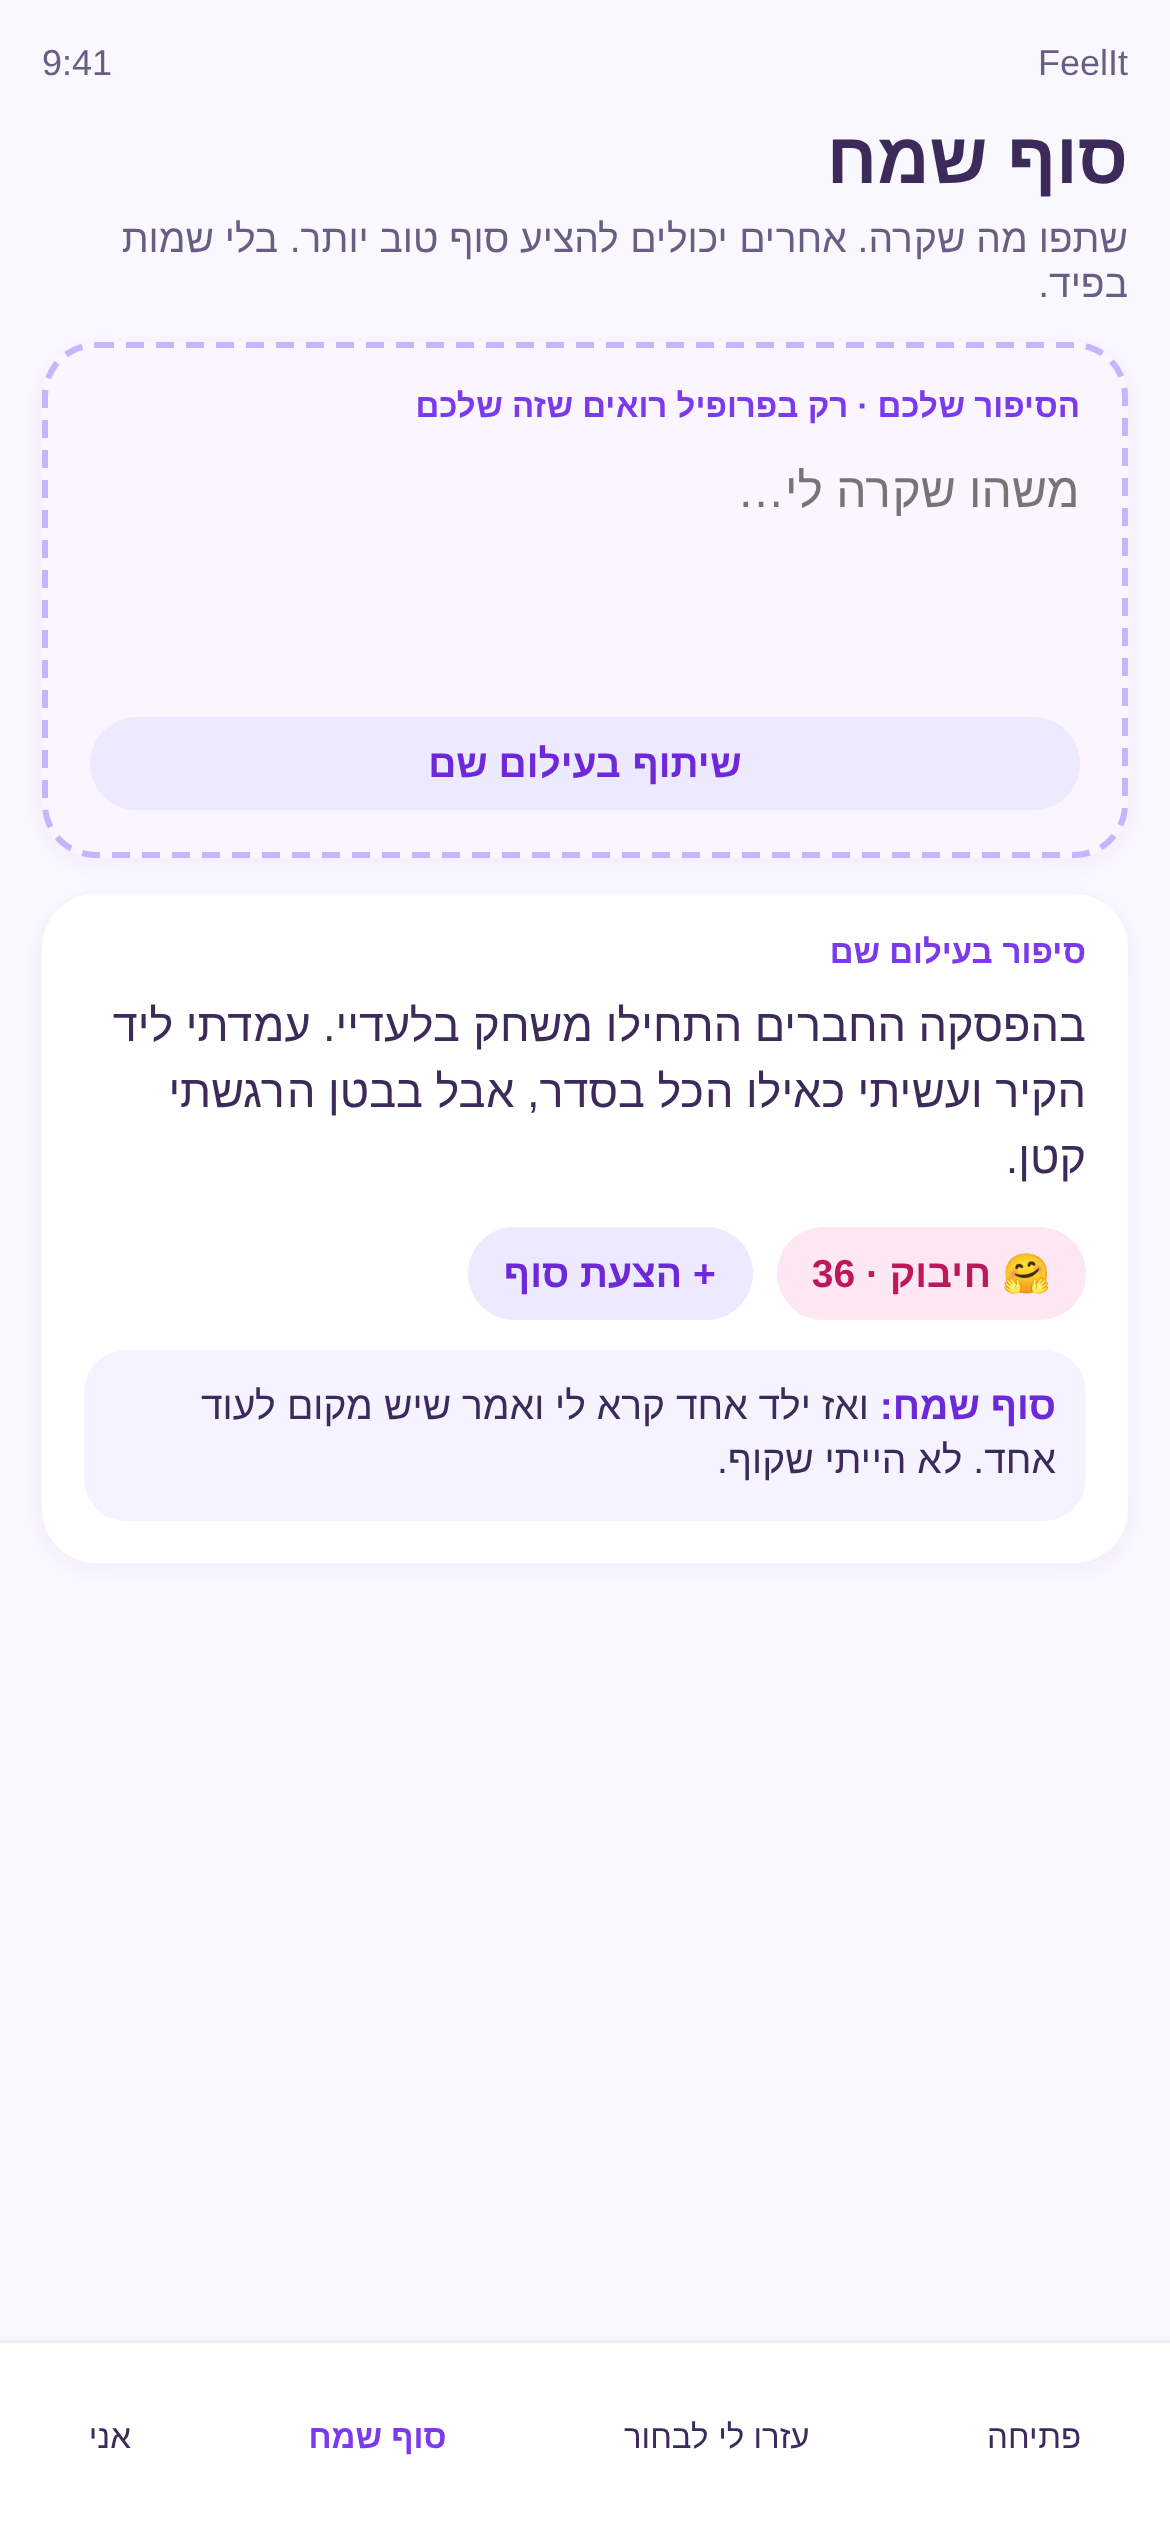
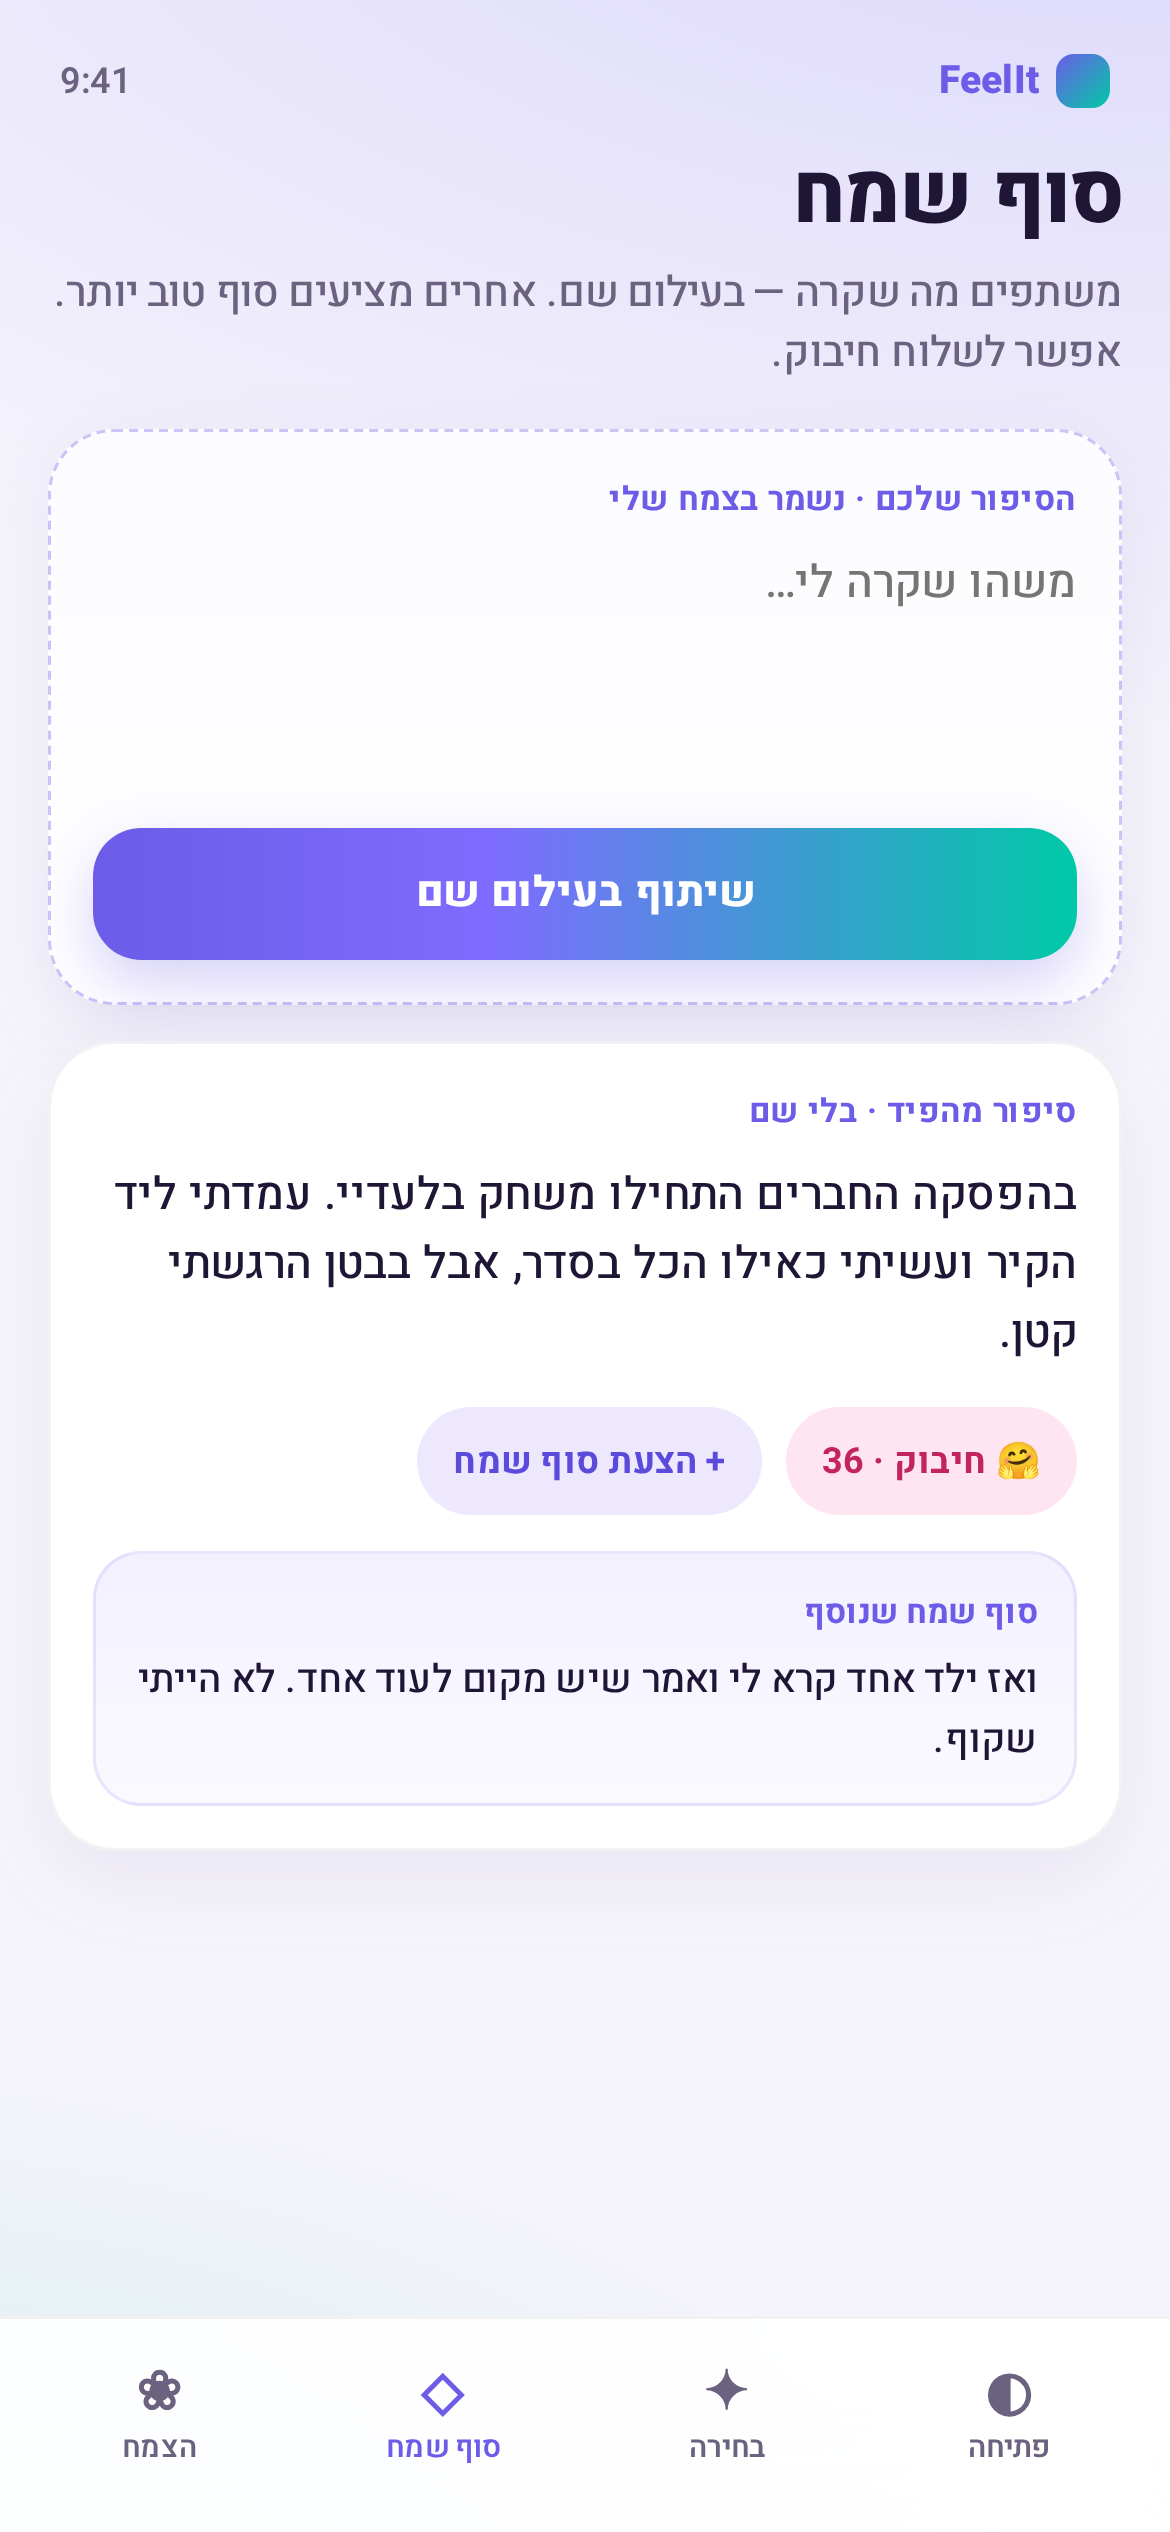
Investor-quality visual upgrade: premium mocks + polished README
- Replace all 6 screen mocks with premium Hebrew RTL portraits
- Polish README for investor-facing first impression:
  - Crisp 2-sentence product summary opening
  - Streamlined section structure
  - Concise descriptions, accurate product content
  - Clean visual hierarchy
- Keep all product claims accurate, no new features invented

diff --git a/README.md b/README.md
@@ -1,175 +1,102 @@
 # FeelIt
 
-FeelIt is an app supporting kids under 10 who have experienced bullying or social harassment.
+**A safe space for kids under 10 who've experienced bullying.** FeelIt helps children express difficult feelings, see they're not alone, and receive kindness from peers—without the risks of open social interaction.
 
-**v1 language: Hebrew** — UI copy is gender-neutral Hebrew; brand name stays "FeelIt".
-
----
-
-## Purpose
-
-FeelIt is an app designed to support **kids under 10** who have suffered, or are still suffering, from **bullying or other social harassment**.
-
-The primary audience is young children who need:
-
-- A safe space to process difficult social experiences
-- A way to connect with peers who understand what they're going through
-- Tools for self-expression without risk of further harassment
-
-Young children experiencing bullying often lack safe outlets to share their experiences. FeelIt aims to provide a supportive environment where kids can:
-
-1. Express how they're feeling day-to-day
-2. Share experiences anonymously without fear of identification
-3. Engage with a community in structured, safe ways
-4. See that they're not alone in their experiences
+> v1 ships in Hebrew (gender-neutral UI). Mocks below are production-intent iPhone portraits.
 
 ---
 
 ## Tenets
 
 ### Don'ts
-
-1. **Don't store personal information** beyond city of residence, first name, and age.
-2. **Don't let free text be tied to a specific other user** — free text must not be associated with information that directly identifies or points to a particular user (prevents harassment and outing).
+1. **Don't store personal information** beyond city, first name, and age.
+2. **Don't let free text target another user** — prevents harassment and outing.
 
 ### Do's
-
-1. **Never leave a user hanging** — every user engagement must get a response (from other users or from the system) so no one feels abandoned.
-2. **Show them they're not alone** — their problems are not unique; others feel this too.
-3. **Give hope** — help the user believe things can change.
-4. **Invite safe connection between kids** — host and encourage cross-user engagement that stays kind and safe.
+1. **Never leave a user hanging** — every engagement gets a response.
+2. **Show them they're not alone** — others feel this too.
+3. **Give hope** — things can change.
+4. **Invite safe connection** — cross-user engagement that stays kind.
 
 ---
 
 ## Screens
 
-### Welcome Screen / פתיחה
+### Welcome / פתיחה
 
-**Trigger:** First app open of the day
-
-**Purpose:** A 3-step flow that lets kids check in, see they're not alone, and send anonymous kindness—all without free text.
-
----
+Daily check-in flow (3 steps). No free text.
 
 #### Step 1 — How I Feel
 
-The child adjusts several **feeling levers** (1–5 scale each), each representing a different dimension of their day. Visual icons at each end matter as much as the number—designed to be bullying-aware without naming bullies on the screen.
+Five feeling levers (1–5 scale), using kid-friendly metaphors:
 
-| English | Hebrew |
-|---------|--------|
+| Lever | Hebrew |
+|-------|--------|
 | Sunshine inside | שמש בפנים |
 | School weather | מזג אוויר בבית הספר |
 | With others | עם אחרים |
 | Steady body | רגועים בגוף |
 | Hope light | אור של תקווה |
 
-**Rules:**
-- Levers only—no free text
-- Each lever uses kid-friendly metaphors with gentle visual endpoints
-- Sensitivity: framing avoids direct bullying language while capturing the child's emotional state
-
-![Welcome Screen — Step 1: How I Feel](mocks/welcome-screen.png)
-
----
+![Welcome — Step 1](mocks/welcome-screen.png)
 
 #### Step 2 — You're Not Alone / לא לבד כאן
 
-After setting their levers, the child sees an **anonymous count** of other kids whose feelings look similar today.
+Shows an anonymous count of kids with similar feelings today. No names, no faces—just reassurance.
 
-- Example: "42 kids felt close to this today" / "42 ילדים הרגישו דומה היום"
-- Display uses anonymous dots/avatars only—no names, no identifiable faces
-- Supporting line: "Different schools. Same weather inside." / "בתי ספר שונים. אותו מזג אוויר בפנים."
+![Welcome — Step 2](mocks/welcome-not-alone.png)
 
-**Design intent:** Reassure the child that others share similar feelings without exposing anyone's identity.
+#### Step 3 — Send Kindness / שלחו אדיבות
 
-![Welcome Screen — Step 2: You're Not Alone](mocks/welcome-not-alone.png)
+Pick one kindness gift to send anonymously to that similar-feeling group:
 
----
-
-#### Step 3 — Send a Warm Gift / מתנה חמה
-
-The child can pick one **structured kindness gift** to send to that anonymous group of similar-feeling kids.
-
-**Gift options:**
-
-| English | Hebrew |
-|---------|--------|
+| Gift | Hebrew |
+|------|--------|
 | Brave star | כוכב אומץ |
 | Hug cloud | ענן חיבוק |
 | You-matter heart | מגיע לכם |
-| Flashlight for a hard day | פנס ליום קשה |
+| Flashlight | פנס ליום קשה |
 | High-five | תנו חמש |
 
-**How it works:**
-- One tap sends the gift into a shared "kindness jar" that those kids can receive
-- Recipients learn only that someone cared—**not who sent it**
-- No free text, no DMs, no way to target individuals
+Recipients learn only that someone cared—not who.
 
-**Design intent:** Empower kids to give support while respecting anti-harassment tenets. Builds connection without exposing identity.
+![Welcome — Step 3](mocks/welcome-gift.png)
 
-![Welcome Screen — Step 3: Send a Warm Gift](mocks/welcome-gift.png)
+---
 
 ### Help Me Choose / עזרו לי לבחור
 
-**Purpose:** Let a young user engage with others safely by asking for help with everyday decisions.
+Safe peer engagement through image-based polls.
 
-**How it works:**
-1. The asker writes a **free-text question** (e.g. "מה ללבוש למסיבה?" / "What should I wear to the party?")
-2. The asker uploads **3–4 images** as answer options (e.g. outfit photos)
-3. Other users see these asks in a feed and **choose exactly one image** to vote
-4. No typed replies, no comments, no DMs on this surface
-
-**Example:**
-> "מה ללבוש למסיבה?" (What should I wear to the party?)
-> - [Image א: שמלה / Dress]
-> - [Image ב: קז'ואל / Casual]
-> - [Image ג: צבעוני / Bright]
-> - [Image ד: נוח / Cozy]
-
-**Safety note:** Voters can only tap an image—no free-text responses to the asker. This keeps peer harassment risk low while still allowing the asker's own question text.
+- Asker posts a question + 3–4 images
+- Others vote by tapping one image
+- No typed replies, no comments, no DMs
 
 ![Help Me Choose](mocks/help-me-choose.png)
 
+---
+
 ### Happy Ending / סוף שמח
 
-**Purpose:** Let kids share what happened to them and receive hopeful happy endings from others.
+Share what happened. Receive hopeful endings from others.
 
-**How it works:**
-1. A user writes a **free-text story** about something that happened to them
-2. They tap "Share anonymously" / "שיתוף בעילום שם" to post it to the feed
-3. In the **public feed**, stories appear **without author identity**
-4. Other users can **suggest a happy ending** / "הצעת סוף" for any story
-5. Other users can give **hugs** / **חיבוק** to a story if they relate (structured reaction)
-6. The **author gets notified** when someone adds an ending (never left hanging)
-
-**Privacy & safety:**
-- Public feed: no author identity shown on stories or endings
-- On their **My Plant** / **הצמח שלי** profile, each user can see their own stories (private to them)
-- Hugs and endings are the safe engagement paths—no free-text DMs
-- Notifications to the author are private system messages
-
-**Design intent:** Give kids a way to process difficult experiences while receiving hope from peers who imagine a kinder outcome.
+- User writes a story, posts anonymously
+- Others suggest happy endings or send hugs (חיבוק)
+- Author gets notified—never left hanging
+- Stories saved privately on the author's My Plant profile
 
 ![Happy Ending](mocks/happy-ending.png)
 
+---
+
 ### My Plant / הצמח שלי
 
-**Purpose:** The user's profile, represented as a growing plant that visualizes their engagement and growth in the app.
+Profile as a growing plant.
 
-**How it works:**
-- Every **engagement by the user** in the app (check-ins, votes, hugs, endings) **waters** the plant
-- Engagement **from other users toward this user** (hugs received, endings on their stories) also waters the plant
-- The plant **grows and evolves visually** as total engagement increases
-- The plant grows **unique fruits** — app-wide unique icons that only this user has grown
-- Once a fruit has grown, the user can **gift it** to other users (e.g. on Happy Ending / סוף שמח, or randomly to someone who feels similarly today)
-
-**Features on this screen:**
-- Current growth stage indicator (e.g. "שלב צמיחה 3 · נבט בוגר")
-- Visual plant that evolves over time
-- "Water for today" progress bar showing engagement + hugs/endings received
-- Collection of unique fruits grown, with gifting option
-
-**Design intent:** Gamify positive engagement while giving kids a personal space that reflects their journey. Fruit gifting extends the kindness loop beyond anonymous gifts.
+- Every engagement waters it (yours and others' toward you)
+- Plant evolves visually through growth stages
+- Grows **unique fruits** (app-wide unique icons)
+- Ripe fruits can be gifted to other users
 
 ![My Plant](mocks/my-plant.png)
 
